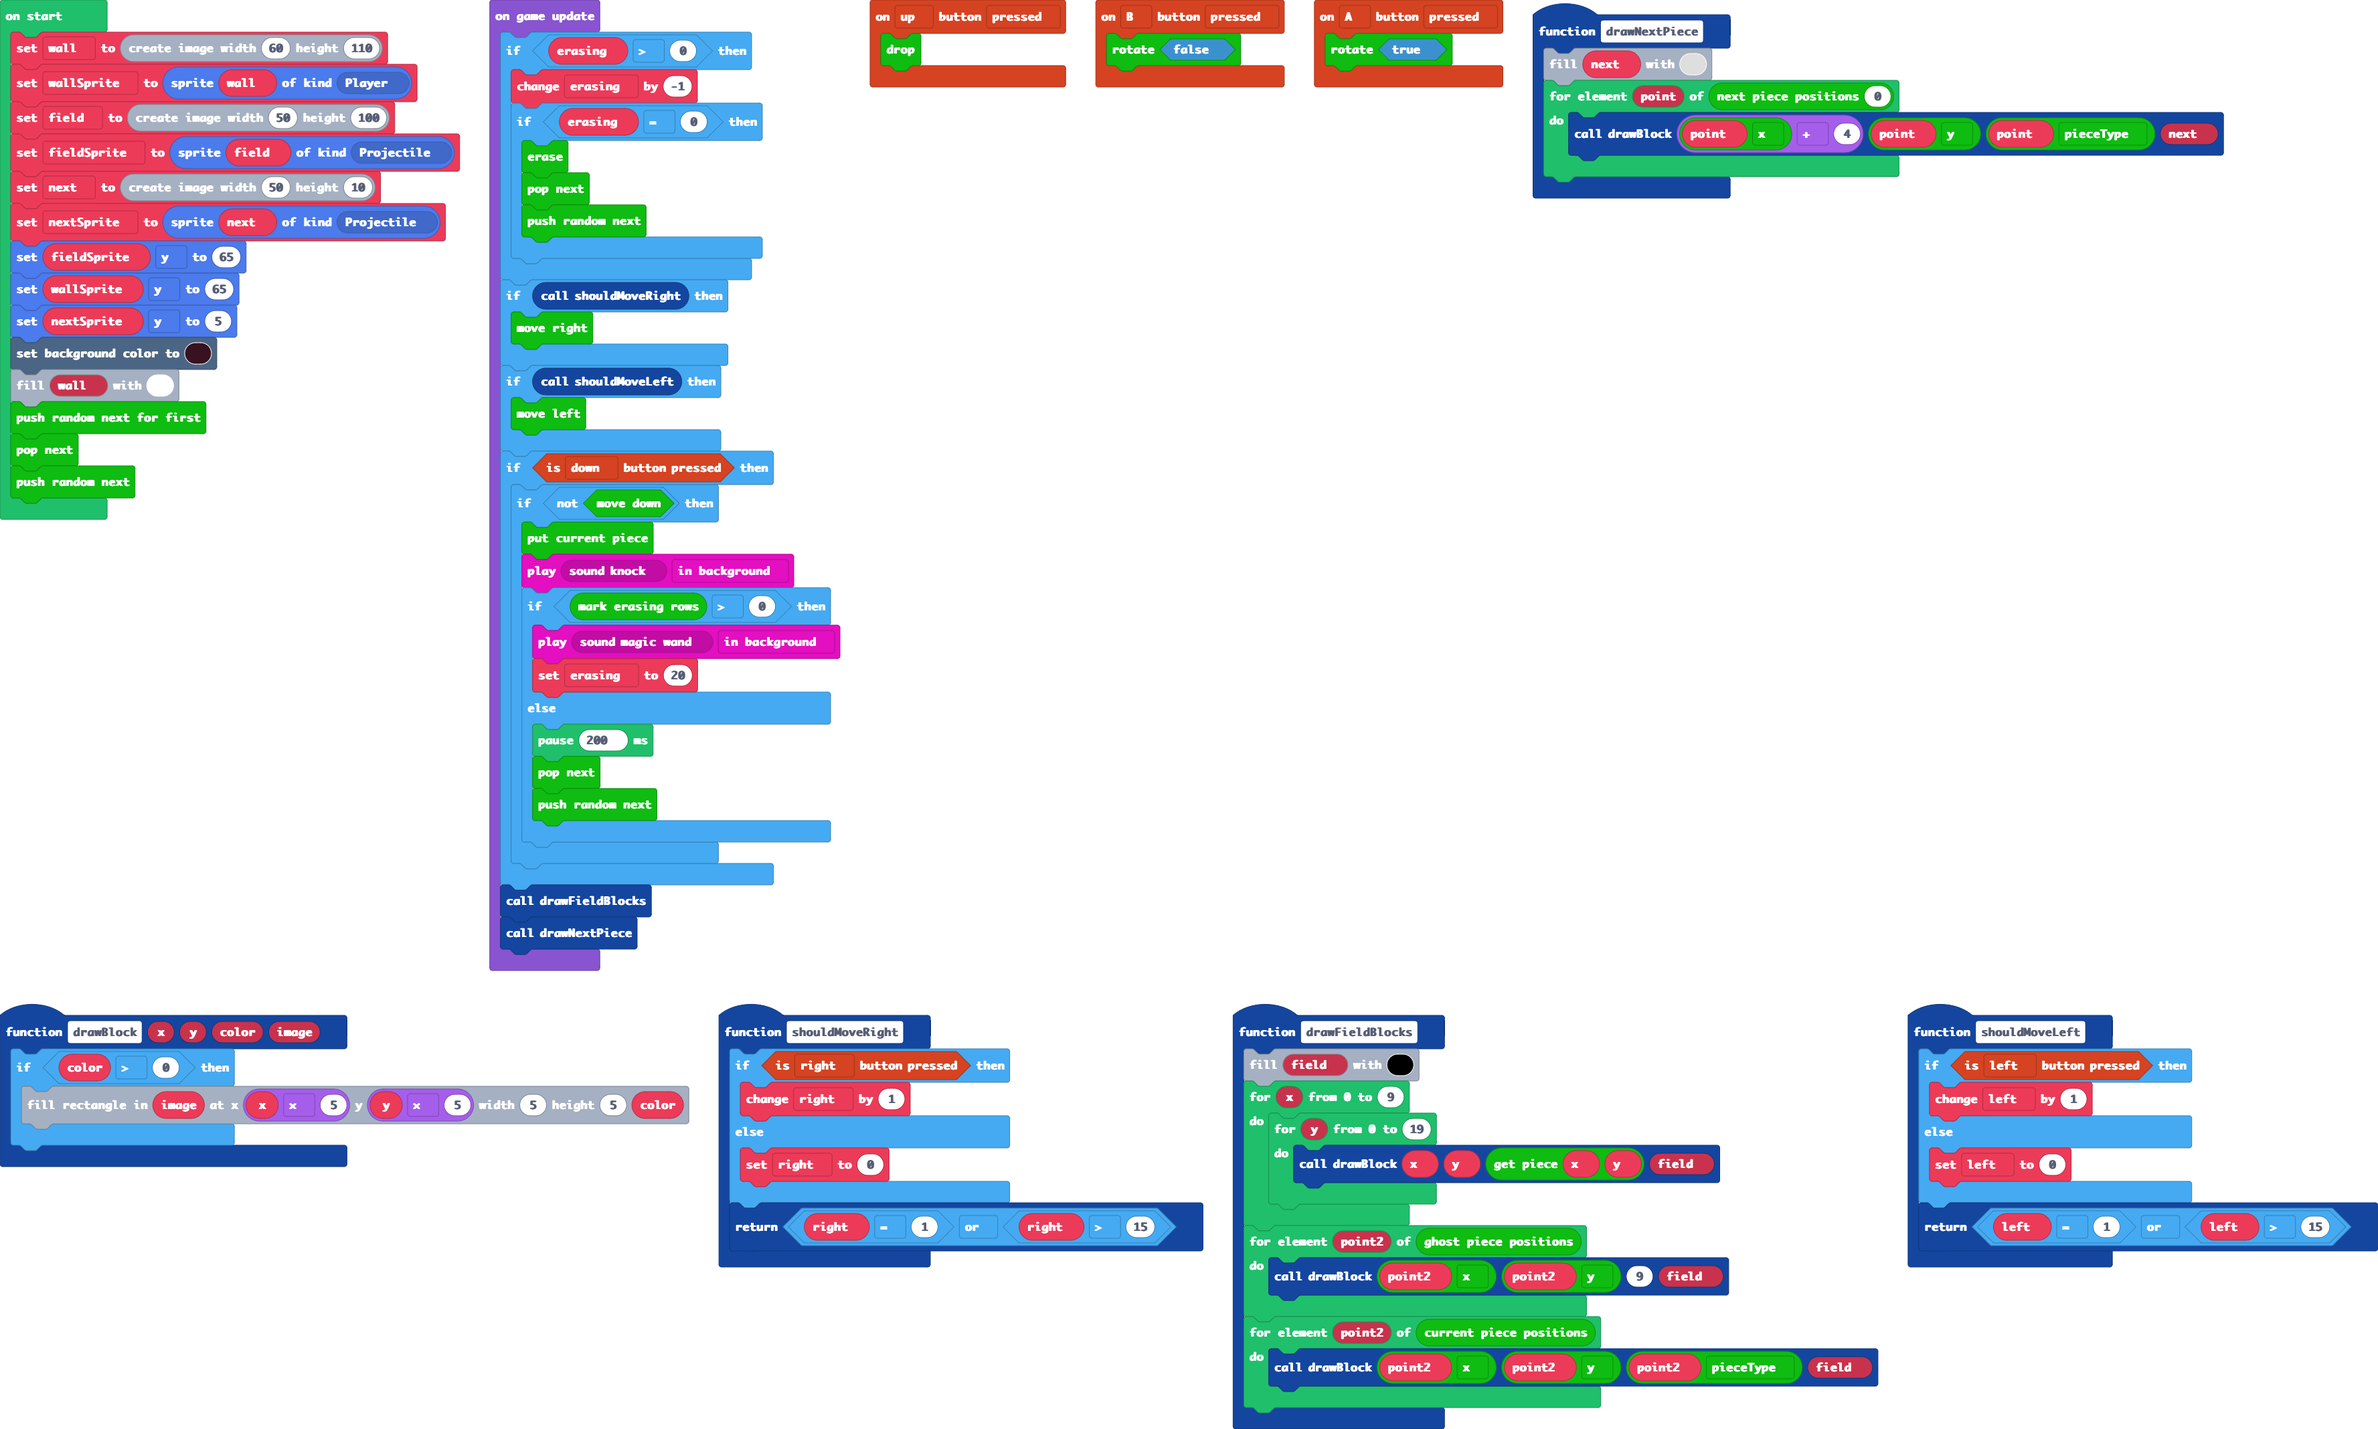
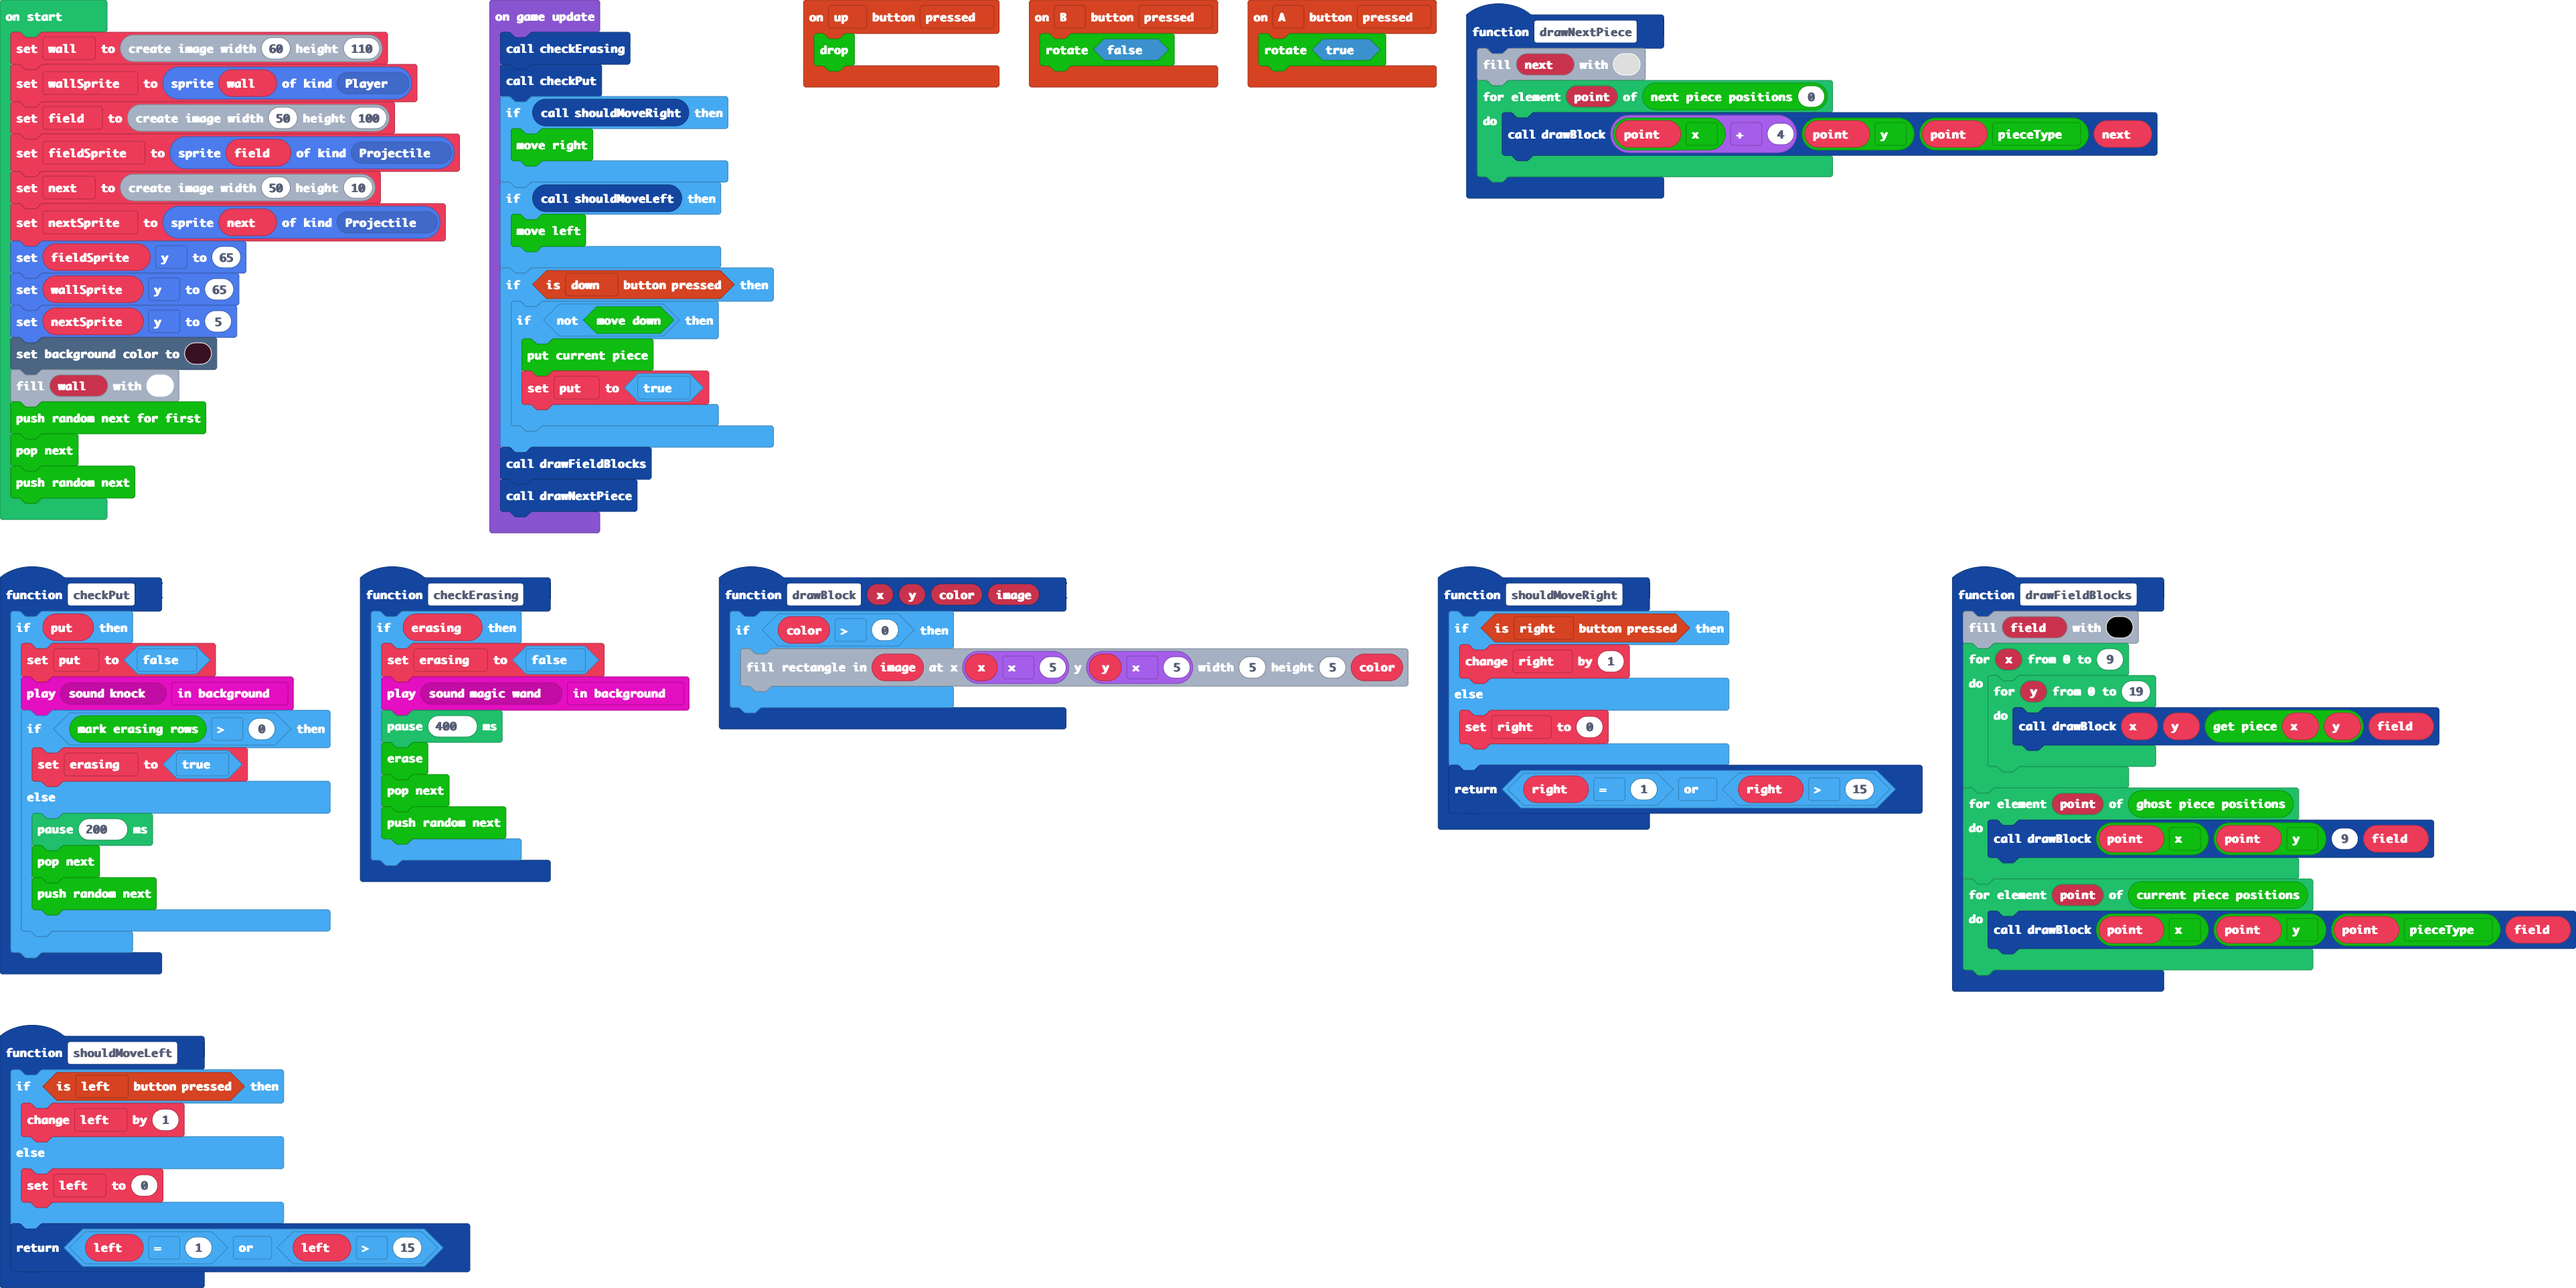
Refactoring

diff --git a/main.ts b/main.ts
@@ -22,17 +22,40 @@ controller.A.onEvent(ControllerButtonEvent.Pressed, function () {
     TGM.rotate(true)
 })
 function drawFieldBlocks () {
-    field.fill(15)
+    field.fill(10)
     for (let x = 0; x <= 9; x++) {
         for (let y = 0; y <= 19; y++) {
             drawBlock(x, y, TGM.getPiece(x, y), field)
         }
     }
-    for (let point2 of TGM.ghostPiecePositions()) {
-        drawBlock(point2.x, point2.y, 9, field)
+    for (let point of TGM.ghostPiecePositions()) {
+        drawBlock(point.x, point.y, 9, field)
     }
-    for (let point2 of TGM.currentPiecePositions()) {
-        drawBlock(point2.x, point2.y, point2.pieceType, field)
+    for (let point of TGM.currentPiecePositions()) {
+        drawBlock(point.x, point.y, point.pieceType, field)
+    }
+}
+function checkErasing () {
+    if (erasing) {
+        erasing = false
+        music.play(music.melodyPlayable(music.magicWand), music.PlaybackMode.InBackground)
+        pause(400)
+        TGM.erase()
+        TGM.popNext()
+        TGM.pushRandomNext()
+    }
+}
+function checkPut () {
+    if (put) {
+        put = false
+        music.play(music.melodyPlayable(music.knock), music.PlaybackMode.InBackground)
+        if (TGM.markErasingRows() > 0) {
+            erasing = true
+        } else {
+            pause(200)
+            TGM.popNext()
+            TGM.pushRandomNext()
+        }
     }
 }
 function drawBlock (x: number, y: number, color: number, image2: Image) {
@@ -48,8 +71,9 @@ function shouldMoveRight () {
     }
     return right == 1 || right > 15
 }
-let erasing = 0
 let right = 0
+let put = false
+let erasing = false
 let left = 0
 let next: Image = null
 let field: Image = null
@@ -68,14 +92,8 @@ TGM.pushRandomNextForFirst()
 TGM.popNext()
 TGM.pushRandomNext()
 game.onUpdate(function () {
-    if (erasing > 0) {
-        erasing += -1
-        if (erasing == 0) {
-            TGM.erase()
-            TGM.popNext()
-            TGM.pushRandomNext()
-        }
-    }
+    checkErasing()
+    checkPut()
     if (shouldMoveRight()) {
         TGM.moveRight()
     }
@@ -85,15 +103,7 @@ game.onUpdate(function () {
     if (controller.down.isPressed()) {
         if (!(TGM.moveDown())) {
             TGM.putCurrentPiece()
-            music.play(music.melodyPlayable(music.knock), music.PlaybackMode.InBackground)
-            if (TGM.markErasingRows() > 0) {
-                music.play(music.melodyPlayable(music.magicWand), music.PlaybackMode.InBackground)
-                erasing = 20
-            } else {
-                pause(200)
-                TGM.popNext()
-                TGM.pushRandomNext()
-            }
+            put = true
         }
     }
     drawFieldBlocks()
